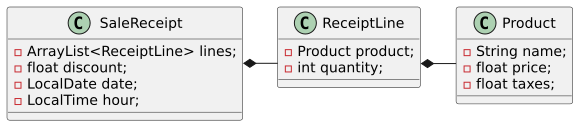
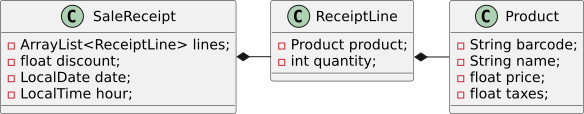
Exercici 1 - Patró expert, plantejat (TODO: afegir-hi la solució)

Changed region(s): [[0.0, 0.0, 1.0, 1.0], [0.4623, 0.6842, 0.7089, 0.7368], [0.0, 0.9737, 0.4007, 1.0]]

diff --git a/book/bf1/chapter01.md b/book/bf1/chapter01.md
@@ -66,11 +66,21 @@ Si una classe (o un objecte) no té totes les dades necessàries per poder execu
 
 Aquest patró genera un baix desacoblament en el codi, perquè permet mantenir un molt bon encapsulament dels objectes i saber, clarament, qui pot donar resposta a les diverses necessitats i càlculs. A més a més, també n'augmenta la cohesió, perquè ajuda a fer una bona representació del món real dins del codi, distribuïnt el comportament entre les classes i facilitant la delegació de tasques (col·laboració).
 
-![Diagrama UML d'exemple](img/ch01/expert_uml_example.png "Diagrama UML de Classes que mostra un exemple inicial per aplicar el Patró *Expert*")
-
-
-{% hint style="info" %}
+{% hint style="warning" %}
 **Informació.**
 
 El patró d'assignació de responsabilitats *Expert* està molt relacionat amb el patró clàssic estructural *Composite* 
 {% endhint %}
+
+
+{% hint style="info" icon="pen" %}
+**Exercici 1**
+
+Donat el diagrama de classes UML que es mostra a continuació, cal declarar i implementar tots els mètodes necessaris per poder assolir la funcionalitat *obtenir el total del tiquet de la compra*. El llenguatge que s'ha d'utilitzar és Java.
+![Diagrama UML de Classes que mostra un exemple inicial per aplicar el Patró *Expert*](img/ch01/expert_uml_example.png "Diagrama UML de Classes que mostra un exemple inicial per aplicar el Patró *Expert*")
+
+Atenció, només s'han d'implementar els mètodes estrictament necessaris. A més a més, tampoc fa falta crear el constructor, ja que, de moment,  es treballarà amb el constructor per defecte que garanteix Java.
+{% endhint %}
+
+
+
